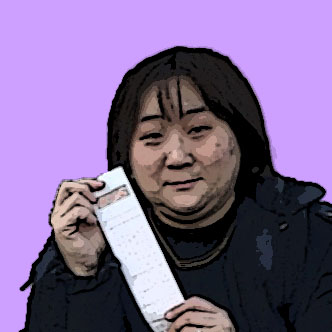
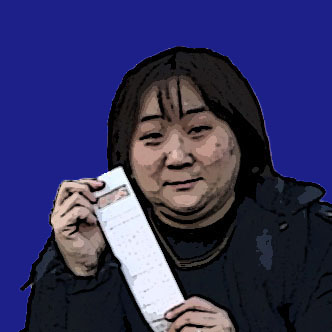
お

diff --git a/sample/sample/css/style01.css b/sample/sample/css/style01.css
@@ -5,23 +5,99 @@
 header{
     
     font-family:'Noto Serif JP', sans-serif;
+    border-bottom: 1px solid #ddd;
+    background-color: #fcfcfc;
+    position:relative;
     
   }
-
+  @media screen and (max-width:480px) { 
+    header{
+       position: fixed;
+       width:100%;
+       top:0;
+       z-index: 1;
+    }
+}
 
 body{
-    background-color: #b7f1ff;
+    background-color:rgb(29,32,136);
       
   }
   
-  h1{
-    background-color: rgb(248, 247, 179);
-    color: blue;
+ 
+  .ribbon2 {
+    display: inline-block;
+    position: relative;
+    height: 60px;
+    line-height: 60px;
+    width: 100%;
     text-align: center;
+    padding: 7px 0;
+    font-size: 36px;/*フォントサイズ*/
+    font-family:'Noto Serif JP', sans-serif;
+    background: #78d0f5;/*背景色*/
+    color: #f5fbff;/*文字色*/
+    box-sizing: border-box;
   }
   
+  .ribbon2 h3 {
+    margin: 0;
+    padding: 0 30px;
+    border-top: dashed 1px #f5fbff;/*上の破線*/
+    border-bottom: dashed 1px #f5fbff;/*下の破線*/
+    line-height: 46px;
+  }
   
+  .ribbon2:before, .ribbon2:after {
+    position: absolute;
+    content: '';
+    width: 0px;
+    height: 0px;
+    z-index: 1;
+  }
   
+  .ribbon2:before {
+    /*左端の山形*/
+    top: 0;
+    left: 0;
+    border-width: 30px 0px 30px 15px;
+    border-color: transparent transparent transparent rgb(29,32,136);
+    border-style: solid;
+  }
+  
+  .ribbon2:after {
+    /*右端の山形*/
+    top: 0;
+    right: 0;
+    border-width: 30px 15px 30px 0px;
+    border-color: transparent rgb(29,32,136);
+    border-style: solid;
+  }
+  
+  h2{
+      text-align: center;
+  }
+  h1{
+      text-align: left;
+  }
+  
+  .box2 {
+    padding: 0.5em 1em;
+    margin: 2em 0;
+    font-weight: bold;
+    font-family:'Noto Serif JP', sans-serif;
+    color: rgb(28, 24, 89,);/*文字色*/
+    background: #f5fbff;
+    border: solid 3px #78c2ff;/*線*/
+    border-radius: 10px;/*角の丸み*/
+    text-align: center;
+   
+
+}
+.box2 p {
+    margin: 0; 
+    padding: 0;
+}
   img{
     max-width: 100%;
   }
@@ -38,3 +114,49 @@ body{
     display: none;
     padding: 30px;
   }
+
+    .btn-circle-stitch {
+        display: inline-block;
+        text-decoration: none;
+        background: #78c2ff;
+        color:rgb(28, 24, 89,);
+        width: 120px;
+        height: 120px;
+        line-height: 120px;
+        border-radius: 50%;
+        text-align: center;
+        overflow: hidden;
+        box-shadow: 0px 0px 0px 5px #78c2ff;
+        border: dashed 1px #f5fbff;
+        transition: .4s;
+      }
+      
+      .btn-circle-stitch:hover {
+        background: #78c2ff;
+        box-shadow: 0px 0px 0px 5px #78c2ff;
+      }
+
+
+  footer{
+    background-color:#f5fbff;
+    color:rgb(28, 24, 89,);
+    font-size: 100%;
+    font-family:'Noto Serif JP', sans-serif;
+    padding:10px;
+    min-height:50px;
+
+    display: flex;
+    align-items: center;
+    justify-content: center;
+
+   
+}
+
+
+@media screen and (min-width:481px) { 
+    footer{
+        position: fixed;
+        bottom:0;
+        width:100%;
+    }
+}

diff --git a/sample/sample01.html b/sample/sample01.html
@@ -15,9 +15,6 @@
             
             <ul>
               <div id='jpg1'></div><img src="./images/argenlazuri rogo45.jpg" alt style="width: 160px;">
-              <li><a href="./sample02.html">First half:1</a></li>
-              <li><a href="./sample03.html">CV</a></li>
-
             </ul>
           </nav>
         </header>
@@ -27,8 +24,29 @@
     <script src="./js/script01.js"></script>
    
     <body>
-      <h1>HAPPY BIRTH DAY</h1>
+      <h1><img src="./images/postermother.jpg" alt style="width: 400px;"></h1>
+      <div class="box2">
+        <p>From argenlazuli<br><br>To mitsue</p>
+    </div>
+      <div class="ribbon2">
+        <h3>HAPPY BIRTH DAY</h3>
+      </div>
+      <h2><img src="./images/photo-1587052755556-89808205c097.jpg" alt style="width: 700px;"></h2>
+      
+      <h4><a href="#" class="btn-circle-stitch">about argenlazuli</a>
+        <a href="./sample02.html">about argenlazuli</a></h4>
+
+      <h5><a href="#" class="btn-circle-stitch">introduce planning</a>
+        <a href="./sample03.html">introduce planning</a></h5>   
+
+      <h6><a href="#" class="btn-circle-stitch">an afterword</a>
+        <a href="./sample04.html">an afterword</a></h6>
+      
+             
     </body>
- 
+
+    <footer>
+         <p>株式会社　argenlazuli</p>
+     </footer>
  
 </html>
